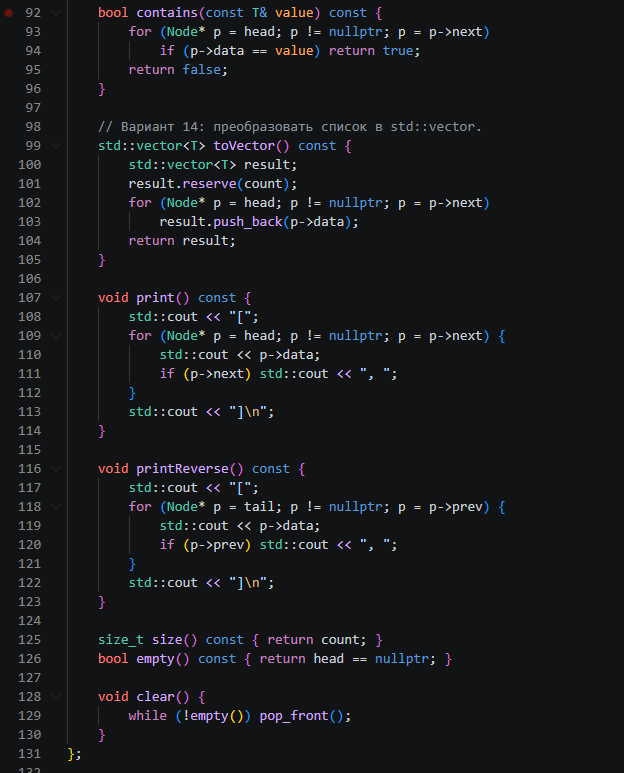
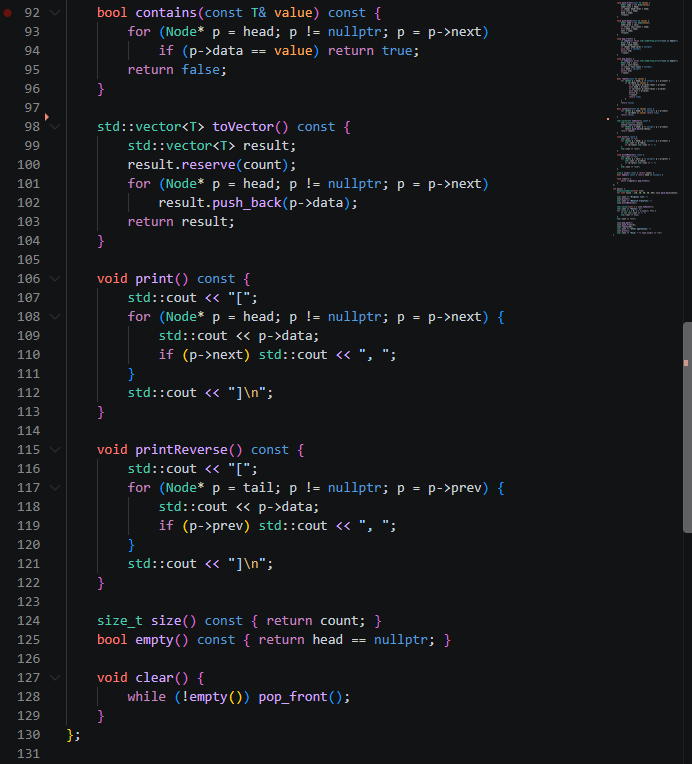
lab_4 fix readme

diff --git a/lab_4_2sem/main.cpp b/lab_4_2sem/main.cpp
@@ -2,6 +2,7 @@
 #include <stdexcept>
 #include <vector>
 
+using namespace std;
 template <typename T>
 class DoublyLinkedList {
 private:
@@ -95,8 +96,7 @@ public:
         return false;
     }
 
-    // Вариант 14: преобразовать список в std::vector.
-    std::vector<T> toVector() const {
+    vector<T> toVector() const {
         std::vector<T> result;
         result.reserve(count);
         for (Node* p = head; p != nullptr; p = p->next)
